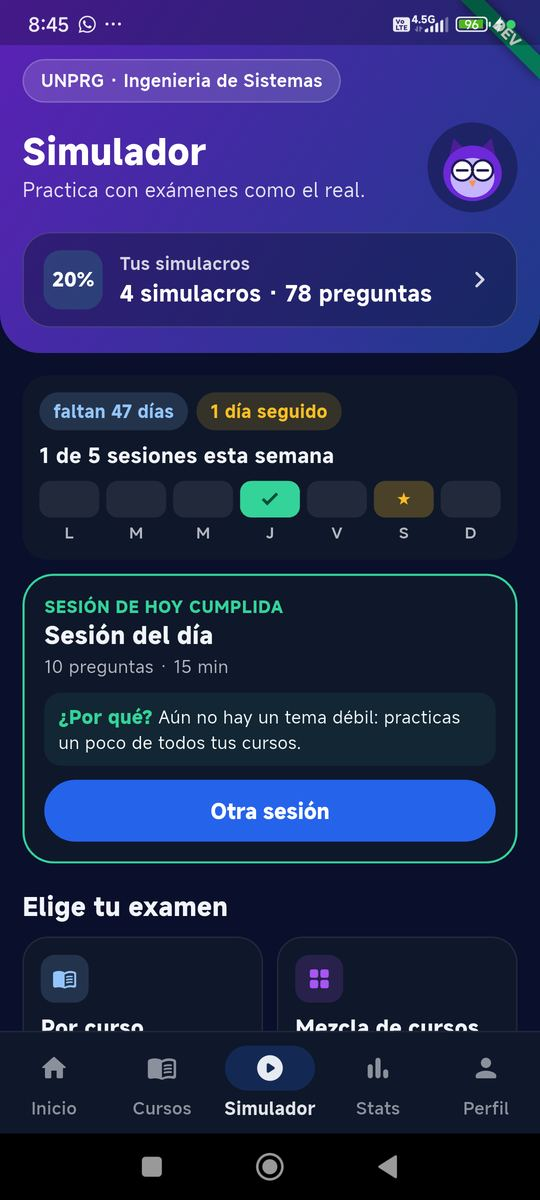
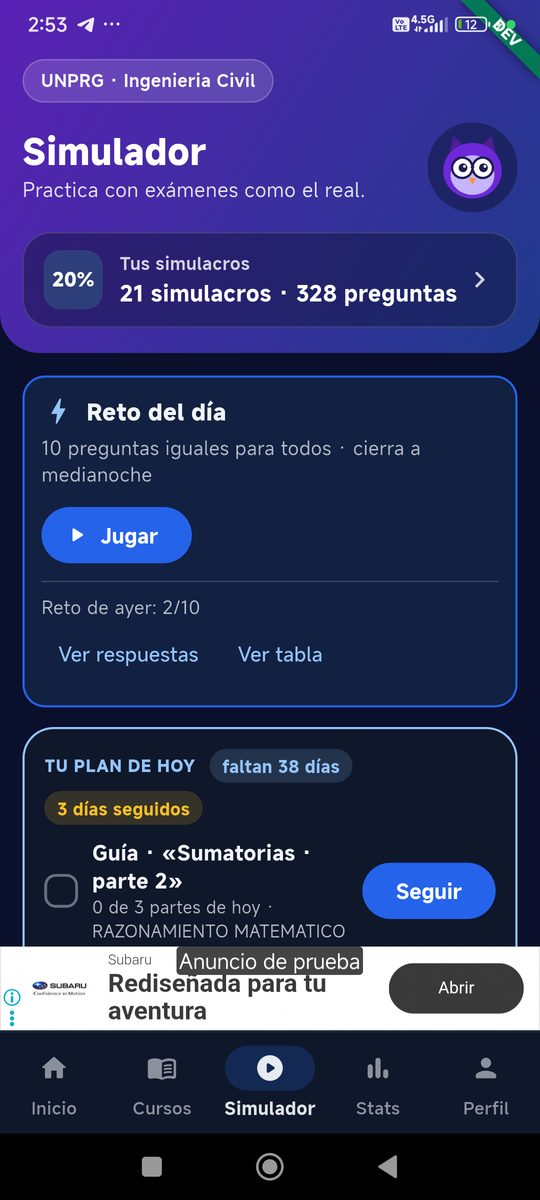
Guías vivas: plan personalizado con capturas reales
Tu plan de hoy, Tu semana, Tu meta corta, fecha única y práctica por peso del área. PROGRESO con la validación en el teléfono.

diff --git a/docs/guias/guia_app.html b/docs/guias/guia_app.html
@@ -29,8 +29,9 @@
       <ol>
         <li><a href="#sim-inicio">Inicio del Simulador</a></li>
         <li><a href="#sim-banner">Tarjeta bajo el búho</a></li>
-        <li><a href="#sim-plan">Tarjeta del plan</a></li>
+        <li><a href="#sim-plan">Tu plan de hoy</a></li>
         <li><a href="#sim-semana">Semana y racha</a></li>
+        <li><a href="#sim-tu-semana">Tu semana</a></li>
         <li><a href="#sim-meta">Tu meta</a></li>
         <li><a href="#sim-diagnostico">Diagnóstico inicial</a></li>
         <li><a href="#sim-practica">Arma tu práctica</a></li>
@@ -80,21 +81,28 @@
   <tr><th>Mensaje</th><th>Cuándo aparece</th><th>Al tocar</th></tr>
   <tr><td class="msg">«UNPRG · Ingeniería Civil»</td><td>Chip con universidad y carrera del perfil.</td><td>Nada.</td></tr>
   <tr><td class="msg">«Hola, {nombre}» y el búho feliz</td><td>Siempre. Nombre del perfil o de la cuenta de Google; si no hay, «estudiante».</td><td>Nada.</td></tr>
-  <tr><td class="msg">«Tu examen · {n} días» · «{dom 30 nov · 08:00}»</td><td>Si la universidad del alumno tiene <b>Próximo examen de admisión</b> en el admin <span class="chip info">ADMIN</span>. El día del examen: «¡Hoy!». Sin fecha, o si ya pasó: «Sin fecha · Ver exámenes pasados».</td><td>Abre Exámenes pasados (Simulador).</td></tr>
+  <tr><td class="msg">«Tu examen · {n} días» · «{dom 30 nov · 08:00}»</td><td><b>Fecha única</b> (la misma en Inicio, plan, Simulador y Stats): el <b>Próximo examen de admisión</b> de la universidad <span class="chip info">ADMIN</span> si no pasó; si no, el último día del mes que el alumno eligió en Tu meta, con «{Nov 2026} · por confirmar». El día del examen: «¡Hoy!». Sin ninguna de las dos: «Sin fecha · Ver exámenes pasados».</td><td>Abre Exámenes pasados (Simulador).</td></tr>
   <tr><td class="msg">«Guía de estudio · {percent}%» con barra</td><td>Siempre; «—» mientras cargan los cursos. El % cuenta <b>partes aprobadas</b> sobre todas las partes activas de tus cursos.</td><td>Abre la Guía de estudio.</td></tr>
-  <tr><td class="msg">«Con {n} partes al día terminas tu guía antes del examen.»</td><td>Con fecha de examen: partes que faltan ÷ días que faltan, redondeado hacia arriba.</td><td>Nada.</td></tr>
+  <tr><td class="msg">«Con {n} partes al día terminas tu guía antes del examen.»</td><td>Solo <b>sin plan</b> (con plan el ritmo va en «Tu plan de hoy»). Con fecha de examen: partes que faltan ÷ días que faltan, redondeado hacia arriba.</td><td>Nada.</td></tr>
   <tr><td class="msg">«Avanza un poco cada día: cada parte suma a tu guía.»</td><td>Sin fecha de examen (o ya pasó).</td><td>Nada.</td></tr>
   <tr><td class="msg">«¡Terminaste tu guía! Repasa con el Simulador.»</td><td>Todas las partes aprobadas.</td><td>Nada.</td></tr>
 </table></div>
+
+<div class="screen" id="inicio-plan-hoy">
+  <figure><img src="img/ini-plan-hoy.jpg" alt="Inicio con Tu plan de hoy"><figcaption>Inicio con plan (TEST, 23-oct-2026).</figcaption></figure>
+  <div class="body">
+    <h3>Tu plan de hoy (con plan)</h3>
+    <p>Si el alumno tiene meta, bajo la cabecera aparece la misma tarjeta «TU PLAN DE HOY» que en el Simulador (ver <a href="#sim-plan">Tu plan de hoy</a>): la parte de la guía que toca, la práctica del día y el ritmo. Sin meta no aparece y el ritmo sigue en la cabecera.</p>
+  </div>
+</div>
 
 <h3 id="inicio-resto">Aviso fijado, pendientes, historias y atajos</h3>
 <div class="table-wrap"><table>
   <tr><th>Mensaje</th><th>Cuándo aparece</th><th>Al tocar</th></tr>
   <tr><td class="msg">Franja roja «AVISO UNPRG · {título}»</td><td>Si hay una noticia urgente o fijada vigente para tu universidad (o general). Solo una: la urgente más reciente; si no, la fijada más reciente. Ver <a href="#noticias">Noticias</a>.</td><td>Abre el detalle.</td></tr>
-  <tr><td class="msg">«TIENES PENDIENTE» · «Rinde el examen de «{subtema} · parte {n}»» · «Rendir»</td><td>La última parte que abriste ya tiene revisadas todas sus secciones y su examen sin aprobar.</td><td>Abre esa parte (ahí está «Rendir examen»).</td></tr>
+  <tr><td class="msg">«TIENES PENDIENTE» · «Rinde el examen de «{subtema} · parte {n}»» · «Rendir»</td><td>Sin plan: la última parte que abriste ya tiene revisadas todas sus secciones y su examen sin aprobar. <b>Con plan</b> los pendientes solo muestran el examen del Simulador a medias (la guía y la práctica ya están en «Tu plan de hoy»); sin él, la tarjeta no aparece.</td><td>Abre esa parte (ahí está «Rendir examen»).</td></tr>
   <tr><td class="msg">«Sigue con «{subtema} · parte {n}»» · «Seguir»</td><td>La última parte que abriste todavía no está completa.</td><td>Abre esa parte.</td></tr>
   <tr><td class="msg">«Termina tu examen del Simulador» · «{examen} · {n} respuestas guardadas» · «Retomar»</td><td>Hay un examen del Simulador sin entregar guardado en el teléfono.</td><td>Lo retoma.</td></tr>
-  <tr><td class="msg">«Sesión de hoy: {tema}» / «Simulacro de esta semana» / «Haz tu diagnóstico» · «Unos {m} minutos» · «Empezar»</td><td>Según tu plan de entrenamiento (sesión de hoy sin hacer, día de simulacro o diagnóstico pendiente). <span class="chip info">ADMIN</span> minutos de la sesión: 15.</td><td>Empieza la sesión, abre Exámenes pasados o el diagnóstico.</td></tr>
   <tr><td class="msg">«Ver los {n} ›»</td><td>Con más de un pendiente.</td><td>Abre «Tus pendientes» con todos.</td></tr>
   <tr><td class="msg">«¡Estás al día!» · «Sigue con tu guía o practica en el Simulador.» · «Ir a la guía»</td><td>Sin pendientes.</td><td>Abre la Guía de estudio.</td></tr>
   <tr><td class="msg">Círculos de historias (anillo de color) y «Ver todas»</td><td>Si hay noticias marcadas como historia, vigentes y de los últimos {días} <span class="chip info">ADMIN</span> 7, máximo 5. El anillo se vuelve gris cuando ya la viste.</td><td>Abre el visor de historias; «Ver todas», la lista de Noticias.</td></tr>
@@ -504,18 +512,24 @@ flowchart LR
 
 <div class="screen two" id="sim-plan">
   <figure><img src="img/sim-inicio-sinplan.jpg" alt="Arma tu plan"><figcaption>Sin meta: «Arma tu plan».</figcaption></figure>
-  <figure><img src="img/sim-inicio-plan.jpg" alt="Hoy te toca"><figcaption>Con meta: «Hoy te toca».</figcaption></figure>
+  <figure><img src="img/sim-inicio-plan.jpg" alt="Tu plan de hoy en el Simulador"><figcaption>Con meta: «Tu plan de hoy» (TEST, 23-oct-2026).</figcaption></figure>
   <div class="body">
-    <h3>Tarjeta del plan</h3>
-    <p>No aparece hasta que cargan tu meta y tus resultados. Muestra <b>una</b> de estas tarjetas, evaluadas en este orden:</p>
+    <h3>Tu plan de hoy</h3>
+    <p>Sin meta se ve «Arma tu plan» · «Te diré qué practicar cada día según tus errores. Siempre podrás elegir otro examen.» · «Crear mi plan» (abre Tu meta). Con meta, la tarjeta «TU PLAN DE HOY» (también en el Inicio) junta lo que toca hoy:</p>
     <div class="table-wrap"><table>
-      <tr><th>#</th><th>Mensaje</th><th>Cuándo aparece</th><th>Al tocar</th></tr>
-      <tr><td class="num">1</td><td class="msg">«Arma tu plan» · «Te diré qué practicar cada día según tus errores. Siempre podrás elegir otro examen.» · «Crear mi plan»</td><td>No tienes meta.</td><td>Abre Tu meta.</td></tr>
-      <tr><td class="num">2</td><td class="msg">«TU PRIMERA SESIÓN · Diagnóstico inicial» · «Un examen corto para saber en qué temas vas bien y en cuáles no.» · «Ver diagnóstico»</td><td>Tienes meta y ningún examen del Simulador entregado.</td><td>Abre el Diagnóstico.</td></tr>
-      <tr><td class="num">3</td><td class="msg">«HOY TE TOCA · SIMULACRO» · «Simulacro semanal» · «Rinde un examen pasado completo, con su tiempo y su puntaje.» · «Elegir examen pasado»</td><td>Hoy es tu día de simulacro y no entregaste un examen pasado desde el lunes.</td><td>Abre Exámenes pasados.</td></tr>
-      <tr><td class="num">4</td><td class="msg">«HOY TE TOCA · PLAN» · «Sesión del día» · «{10} preguntas · {15} min» · «Empezar sesión»</td><td>En cualquier otro caso, si hoy no hiciste una sesión.</td><td>Crea «Hoy te toca», <b>siempre con reloj</b>.</td></tr>
-      <tr><td class="num">4b</td><td class="msg">«SESIÓN DE HOY CUMPLIDA» (borde verde) · «Otra sesión»</td><td>Igual, pero hoy ya hiciste una sesión.</td><td>Crea otra sesión.</td></tr>
+      <tr><th>Parte</th><th>Mensaje</th><th>Cuándo aparece</th><th>Al tocar</th></tr>
+      <tr><td class="msg">Chips</td><td class="msg">«faltan {n} días» (+ «· por confirmar») · «{n} días seguidos»</td><td>Días hasta la fecha única del examen; «tu examen es hoy» el mismo día; sin fecha no hay chip. Racha si es mayor que 0.</td><td>—</td></tr>
+      <tr><td class="msg">Guía</td><td class="msg">«Guía · «{subtema} · parte {n}»» · «{h} de {m} partes de hoy · {CURSO}» · «Seguir»</td><td>La parte que toca: la última que abriste si aún no está aprobada; si no, la primera sin aprobar empezando por los <b>cursos clave</b> del área de tu carrera y luego por peso. <code>m</code> = el ritmo de hoy; <code>h</code> = partes aprobadas hoy.</td><td>Abre esa parte.</td></tr>
+      <tr><td class="msg">Guía cumplida</td><td class="msg">«Guía de hoy lista: {n} partes» (check verde) · «Seguir»</td><td>Ya aprobaste las <code>m</code> partes de hoy.</td><td>Adelanta la siguiente.</td></tr>
+      <tr><td class="msg">Día sin guía</td><td class="msg">«Hoy no toca guía. Si quieres, adelanta.»</td><td>Hoy no es día de estudio (por los días por semana de tu meta) o es el día del simulacro.</td><td>Abre la siguiente parte.</td></tr>
+      <tr><td class="msg">Guía terminada</td><td class="msg">«¡Terminaste tu guía! Repasa con el Simulador.»</td><td>Todas las partes aprobadas.</td><td>—</td></tr>
+      <tr><td class="msg">Práctica</td><td class="msg">«Práctica del día» · «{10} preguntas · {15} min» + «¿Por qué?» · «Empezar»</td><td>Día normal sin práctica hecha. Ya hecha: «Práctica del día lista» y «Otra».</td><td>Crea «Hoy te toca», <b>siempre con reloj</b>.</td></tr>
+      <tr><td class="msg">Simulacro</td><td class="msg">«★ Simulacro» · «Un examen pasado completo, con su tiempo y puntaje.» · «Empezar»</td><td>Hoy es tu día de simulacro y no entregaste un examen pasado desde el lunes.</td><td>Abre Exámenes pasados.</td></tr>
+      <tr><td class="msg">Diagnóstico</td><td class="msg">«Diagnóstico» · «Empezar»</td><td>Tienes meta y ningún examen del Simulador entregado.</td><td>Abre el Diagnóstico.</td></tr>
+      <tr><td class="msg">Ritmo</td><td class="msg">«{n} partes por día de estudio y terminas tu guía antes del examen.» / «A {n} partes por día llegas al {p} % de tu guía: empieza por lo clave.»</td><td>Partes sin aprobar al empezar el día ÷ días de estudio hasta la víspera del examen, hacia arriba, con tope de 3 <span class="chip info">ADMIN</span> («Tope de partes por día», 1–10). Si el tope no alcanza, la segunda frase con el % de la guía que se cubre. Se recalcula cada día.</td><td>—</td></tr>
+      <tr><td class="msg">Enlace</td><td class="msg">«Ver mi semana ›»</td><td>Siempre con meta.</td><td>Abre <a href="#sim-tu-semana">Tu semana</a>.</td></tr>
     </table></div>
+    <p><b>Días de estudio:</b> tantos días como «días a la semana» de tu meta, en este orden de preferencia: lunes, martes, jueves, viernes, miércoles, domingo, sábado; el día del simulacro no es de estudio salvo con 7 días.</p>
     <h4>El recuadro «¿Por qué?»</h4>
     <div class="table-wrap"><table>
       <tr><th>Mensaje</th><th>Cuándo aparece</th></tr>
@@ -527,7 +541,7 @@ flowchart LR
       <p><b>Sí se cumple.</b> Al tocar «Empezar sesión», el servidor arma 10 preguntas <span class="chip info">ADMIN</span>:</p>
       <ul>
         <li>el 60 % <span class="chip info">ADMIN</span> (6 preguntas) sale de tus temas débiles, hasta 3, repartidas entre ellos;</li>
-        <li>el resto sale de hasta 3 cursos al azar.</li>
+        <li>el resto sale de 3 cursos elegidos al azar, con más probabilidad los que más pesan en el área del examen de tu carrera (preguntas × puntos del prospecto); si tu carrera no tiene área, al azar.</li>
       </ul>
       <p>Sin temas débiles, las 10 se reparten entre los cursos. Dentro de cada tema van primero las preguntas que no viste en 14 días <span class="chip info">ADMIN</span>.</p>
       <p>Un tema deja de ser débil cuando pasa del 50 % con 5 o más respuestas. Cuentan los aciertos de <b>todos</b> los exámenes del Simulador.</p>
@@ -538,27 +552,45 @@ flowchart LR
 <h3 id="sim-semana">Semana y racha (con meta)</h3>
 <div class="table-wrap"><table>
   <tr><th>Mensaje</th><th>Cuándo aparece</th></tr>
-  <tr><td class="msg">«faltan {n} días» / «falta 1 día» / «tu examen es este mes»</td><td>Si elegiste mes de examen. Cuenta hasta el <b>día 1</b> de ese mes; desde el día 2 del mes el chip desaparece. Con «Aún no sé» no aparece.</td></tr>
+  <tr><td class="msg">«faltan {n} días» / «falta 1 día» / «tu examen es hoy» (+ «· por confirmar»)</td><td>Cuenta hasta la fecha única del examen: la de la universidad o, si no la publicó, el último día del mes de tu meta («por confirmar»). Sin ninguna, no aparece.</td></tr>
   <tr><td class="msg">«{n} días seguidos»</td><td>Racha: días seguidos con sesión, tolerando 1 día vacío <span class="chip info">ADMIN</span>. Hoy sin sesión todavía no la corta.</td></tr>
   <tr><td class="msg">«{h} de {meta} sesiones esta semana»</td><td><code>h</code> = días distintos con sesión desde el lunes (dos exámenes el mismo día cuentan 1).</td></tr>
   <tr><td class="msg">Franja L M M J V S D</td><td>✓ día con sesión; «Hoy» si hoy aún no; ★ día de simulacro futuro; gris el resto.</td></tr>
 </table></div>
 <p><b>Qué cuenta como sesión:</b> cualquier examen del Simulador entregado con 10 o más preguntas <span class="chip info">ADMIN</span>, sea del plan o libre. El admin puede limitarlo a sesiones del plan.</p>
 
-<div class="screen" id="sim-meta">
-  <figure><img src="img/sim-meta.jpg" alt="Tu meta"><figcaption>Tu meta.</figcaption></figure>
+<div class="screen" id="sim-tu-semana">
+  <figure><img src="img/sim-semana.jpg" alt="Tu semana"><figcaption>Tu semana (TEST, 23-oct-2026).</figcaption></figure>
+  <div class="body">
+    <h3>Tu semana</h3>
+    <p>Se abre con «Ver mi semana ›». Ruta <code>/simulator_plan_week</code>.</p>
+    <div class="table-wrap"><table>
+      <tr><th>Mensaje</th><th>Cuándo aparece / regla</th></tr>
+      <tr><td class="msg">«Editar meta» (arriba a la derecha)</td><td>Siempre. Abre Tu meta.</td></tr>
+      <tr><td class="msg">«Tu examen» · «faltan {n} días · {lun 30 nov · 08:00}» y la frase del ritmo</td><td>Fecha única y el mismo ritmo de «Tu plan de hoy».</td></tr>
+      <tr><td class="msg">Chips, «{h} de {meta} sesiones esta semana» y la franja L…D</td><td>Igual que en <a href="#sim-semana">Semana y racha</a>.</td></tr>
+      <tr><td class="msg">Lunes … Domingo: «{n} partes · práctica» / «★ Simulacro» / «Descanso», check verde si ese día hubo sesión; «Hoy» resaltado</td><td>Día de estudio, día del simulacro o día libre según tu meta.</td></tr>
+      <tr><td class="msg">Glosario: «Práctica del día: preguntas cortas, más de tus temas flojos.» · «Simulacro: un examen pasado completo, con su tiempo y puntaje.» · «Diagnóstico: solo la primera vez, para saber por dónde empezar.»</td><td>Siempre, al final.</td></tr>
+    </table></div>
+  </div>
+</div>
+
+<div class="screen two" id="sim-meta">
+  <figure><img src="img/sim-meta.jpg" alt="Tu meta"><figcaption>Tu meta con la fecha publicada.</figcaption></figure>
+  <figure><img src="img/sim-meta-ritmo.jpg" alt="Tu meta con vista previa del ritmo"><figcaption>Vista previa del ritmo al elegir 5 días.</figcaption></figure>
   <div class="body">
     <h3>Tu meta</h3>
-    <p>Se abre con «Crear mi plan» o, si ya existe, con la bandera «Editar meta» del historial (es el único acceso para editarla).</p>
+    <p>Se abre con «Crear mi plan» o, si ya existe, con «Editar meta» (Tu semana o el historial).</p>
     <div class="table-wrap"><table>
       <tr><th>Mensaje</th><th>Valor inicial / regla</th></tr>
-      <tr><td class="msg">Búho: «Armemos tu plan. Te diré qué practicar cada día, y siempre podrás elegir otro examen.»</td><td>—</td></tr>
-      <tr><td class="msg">«Postulas a {carrera} · de tu perfil»</td><td>Solo lectura; sale del perfil.</td></tr>
-      <tr><td class="msg">«¿CUÁNDO DAS TU EXAMEN?» (12 meses + «Aún no sé»)</td><td>Ninguno marcado al crear; guardar sin elegir = «Aún no sé».</td></tr>
-      <tr><td class="msg">«SESIONES POR SEMANA» 3 · 5 · 7 y «recomendado»</td><td>5 <span class="chip info">ADMIN</span>. «Cada sesión: unos 15 minutos.»</td></tr>
-      <tr><td class="msg">«DÍA DEL SIMULACRO COMPLETO» L…D</td><td>Sábado <span class="chip info">ADMIN</span>.</td></tr>
-      <tr><td class="msg">«Recordatorio diario» · «19:00 · Guardamos tu hora; los avisos llegan en una próxima versión.»</td><td>Apagado. La hora no se edita y todavía no hay notificaciones.</td></tr>
-      <tr><td class="msg">«Crear mi plan» / «Guardar meta» · «Ahora no, solo quiero practicar»</td><td>Se guarda en tu perfil. Si falla: «No pudimos cargar esta información. Intenta de nuevo.»</td></tr>
+      <tr><td class="msg">Búho: «Ya sé a qué postulas y cuándo. Solo dime cuántos días estudias y armo tu semana.» / «Armemos tu plan. Te diré qué practicar cada día, y siempre podrás elegir otro examen.»</td><td>El primero si la universidad publicó la fecha; si no, el segundo.</td></tr>
+      <tr><td class="msg">«Postulas a {universidad · carrera} · de tu perfil»</td><td>Solo lectura; sale del perfil.</td></tr>
+      <tr><td class="msg">«Tu examen» · «{lun 30 nov · 08:00} · faltan {n} días» · «Fecha publicada por la {universidad}»</td><td>Si la universidad tiene próximo examen <span class="chip info">ADMIN</span>. En ese caso no se pregunta el mes.</td></tr>
+      <tr><td class="msg">«¿EN QUÉ MES CREES QUE SERÁ TU EXAMEN?» (12 meses + «Aún no sé») · «Aproximado basta: cuando la universidad publique la fecha, usamos la suya.»</td><td>Solo si la universidad no publicó la fecha.</td></tr>
+      <tr><td class="msg">«¿CUÁNTOS DÍAS A LA SEMANA ESTUDIAS?» 3 · 5 · 7 y «recomendado» · «Cada día: partes de la guía y una práctica de {15} min.»</td><td>5 <span class="chip info">ADMIN</span>.</td></tr>
+      <tr><td class="msg">«¿QUÉ DÍA HACES TU SIMULACRO?» L…D · «Un examen pasado completo, una vez por semana.»</td><td>Sábado <span class="chip info">ADMIN</span>.</td></tr>
+      <tr><td class="msg">«Con {d} días: {n} partes por día y terminas tu guía a tiempo.» / «Con {d} días: {n} partes por día (lo máximo). Llegas al {p} % de tu guía y el plan empieza por lo que más pesa en tu examen.»</td><td>Vista previa del ritmo; cambia al elegir los días. Sin fecha no aparece.</td></tr>
+      <tr><td class="msg">«Guardar mi plan» / «Guardar meta» · «Ahora no, solo quiero practicar»</td><td>Se guarda en tu perfil. Si falla: «No pudimos cargar esta información. Intenta de nuevo.» Ya no hay recordatorio diario (los avisos no existen todavía); el valor guardado se conserva.</td></tr>
     </table></div>
   </div>
 </div>
@@ -1046,7 +1078,7 @@ flowchart LR
   <tr><td class="msg">Cursos → Subtemas</td><td>Examen de dominio («Examen integrador») del subtema.</td><td>—</td></tr>
   <tr><td class="msg">Plantillas de examen</td><td>Preguntas, duración y % para aprobar de cada examen de parte o dominio.</td><td>60 min si no tiene duración</td></tr>
   <tr><td class="msg">Configuración → Simulador</td><td>Tamaños de práctica, reloj por defecto, penalidad, días sin repetir, origen y dificultad, otras universidades, ocultar incompletos, explicaciones.</td><td>10/20/40 · sí · no · 14 · ambos · mixta · sí · sí · sí</td></tr>
-  <tr><td class="msg">Configuración → Plan de entrenamiento</td><td>Sesiones por semana y recomendada, tamaño de la sesión, % de temas débiles, umbral y respuestas mínimas, diagnóstico, «¿Por qué?», día de simulacro, hora de recordatorio, mínimo para contar sesión, gracia de la racha, si cuentan los exámenes libres.</td><td>3/5/7 · 5 · 10 preg./15 min · 60 % · 50 % y 5 · 4 por curso · sí · sábado · 19:00 · 10 · 1 día · sí</td></tr>
+  <tr><td class="msg">Configuración → Plan de entrenamiento</td><td>Sesiones por semana y recomendada, tamaño de la sesión, % de temas débiles, umbral y respuestas mínimas, diagnóstico, «¿Por qué?», día de simulacro, hora de recordatorio, mínimo para contar sesión, gracia de la racha, si cuentan los exámenes libres, tope de partes de la guía por día.</td><td>3/5/7 · 5 · 10 preg./15 min · 60 % · 50 % y 5 · 4 por curso · sí · sábado · 19:00 · 10 · 1 día · sí · 3</td></tr>
   <tr><td class="msg">Configuración → XP y rangos</td><td>Escalera de rangos (nombre, XP desde, imagen), estrellas y XP por estrella, XP por evento (0 lo desactiva), tope diario, mínimo de preguntas por sesión, días para no repetir, segundos mínimos por pregunta, cada cuántos días un examen pasado da XP.</td><td>18 escalones · sí · 2.000 · ver tabla · 300 · 10 · 14 · 5 · 7</td></tr>
   <tr><td class="msg">Configuración → Rankings</td><td>Interruptor general (con «Alumnos que ganaron XP esta semana» para decidir); etapas, alumnos por grupo, % que sube y baja, mínimo para bajar, grupos por universidad, «Esta semana» y su mínimo por carrera; reto: activo, preguntas, minutos, bono, preguntas de exámenes pasados propios, días sin repetir, mínimo de la pestaña de carrera; palabras prohibidas.</td><td>Apagado · Aspirante…Ingresante · 30 · 15 % / 15 % · 5 · no · sí · 5 · sí · 10 · 15 · 20 · 6 · 30 · 5</td></tr>
   <tr><td class="msg">Configuración → Nombres de usuario y reto de hoy</td><td>Buscar un nombre de usuario o uid y retirarlo con motivo (la app le asigna otro al azar y le explica por qué); ver quiénes se ocultaron; ver el reto de hoy de cada universidad y cambiar una pregunta si nadie lo entregó aún.</td><td>—</td></tr>
@@ -1090,6 +1122,7 @@ flowchart LR
   <li><b>19-oct-2026</b> · Candado del video renovado: tarjeta compacta con el degradado de la cabecera y el búho guiñando, «Desbloquea la explicación · Ganas +5 XP · te quedan 25 XP hoy», «Ver video · +5 XP» y «Premium». Ver el video completo da XP (5 por explicación, tope de 25 al día, una vez por pregunta, ajustables en el admin) y abre la explicación con el búho feliz y «¡Así se resuelve!».</li>
   <li><b>19-oct-2026</b> · Revisión por pregunta renovada (examen de parte, de dominio y Simulador): filtros «Falladas · En blanco · Correctas · Todas», mapa de casillas para saltar a cualquier pregunta, tarjeta que se entiende cerrada («Marcaste B · era C» y el inicio del enunciado), todas las alternativas marcadas al abrirla (rojo la tuya, verde la correcta, gris en blanco) y, en el Simulador, «Ver en la guía» por pregunta.</li>
   <li><b>19-oct-2026</b> · Anuncios: el banner va también en Cursos, Simulador (portada), Stats y Perfil (siete pantallas, cada una con su interruptor en Configuración → Anuncios) y se comparte entre pestañas para aparecer al instante; el anuncio de pantalla completa sale al terminar cada examen, antes del resultado (de fábrica sin espera ni primer examen libre; ambos siguen siendo ajustes del admin). App #123, admin #107.</li>
+  <li><b>23-oct-2026</b> · Plan personalizado (app #137, admin #121): fecha única del examen (universidad o mes de la meta «por confirmar»), «Tu plan de hoy» en Inicio y Simulador (parte de la guía que toca, cursos clave primero, ritmo con tope configurable, práctica del día), pantalla «Tu semana», «Tu meta» corta con vista previa del ritmo y sin recordatorio, y la práctica del día elige cursos según su peso en el área del examen. Probado en el teléfono; capturas nuevas. Corregido: «{n} %» ya no se parte en dos líneas y el chip del día del examen dice «tu examen es hoy».</li>
   <li><b>19-oct-2026</b> · Probado en el teléfono (TEST): banner de prueba en el Inicio, pantalla Premium, tarjeta del Perfil, premium regalado (sin banner), «Restaurar compras» y el aviso del tope diario de exámenes pasados; capturas reales en «Anuncios» y «Plan Premium». Corregido el banner que tomaba media pantalla y dejaba el Inicio vacío (app #122).</li>
   <li><b>19-oct-2026</b> · Plan Premium (Fase 5B de costos): tarjeta en el Perfil, pantalla <code>/profile/premium</code> con los dos planes de Google Play, restaurar compras y estado vigente; tope diario de exámenes pasados para la cuenta gratuita con aviso «Exámenes pasados de hoy»; «O hazte Premium» bajo el candado del video; el premium apaga anuncios, candados y topes. En TEST las compras siguen deshabilitadas (sin Play Console); el admin regala premium desde la ficha del alumno.</li>
   <li><b>18-oct-2026</b> · Anuncios de AdMob (Fase 5A de costos): banner al pie de Inicio, Noticias y Rankings; anuncio de pantalla completa al salir de un resultado (primer examen del día libre, mínimo 10 min entre dos); video para ver la explicación de una pregunta fallada; nada en lección, examen, simulador ni historias; todo apagable desde Configuración → Anuncios. Capturas pendientes de la prueba en el teléfono.</li>

diff --git a/docs/guias/arquitectura.html b/docs/guias/arquitectura.html
@@ -193,15 +193,15 @@ flowchart LR
       <li>Cada vez que el alumno entrega un examen del Simulador, el servidor anota cuántas respondió y cuántas acertó <b>por tema</b>.</li>
       <li>Un tema es <b>débil</b> si tiene al menos 5 respuestas y menos del 50 % de aciertos.</li>
       <li>La app lee esos datos y muestra «Fallaste 7 de 8 en {tema}».</li>
-      <li>Al tocar «Empezar sesión», el servidor arma 10 preguntas: 6 de los temas débiles (hasta 3 temas) y 4 de cursos al azar.</li>
+      <li>Al tocar «Empezar sesión», el servidor arma 10 preguntas: 6 de los temas débiles (hasta 3 temas) y 4 de 3 cursos elegidos al azar con probabilidad según su peso en el área del examen de la carrera (<code>functions/src/exam_areas.ts</code>; sin área, al azar).</li>
       <li>Cuando el tema pasa del 50 %, deja de ser débil y el plan pasa al siguiente.</li>
     </ol>
 <pre class="mermaid">
 flowchart LR
   E["Entrega un examen"] --> T["Servidor suma aciertos por tema"]
   T --> W{"¿Tema con 5+ respuestas y menos de 50 %?"}
-  W -->|sí| H["Hoy te toca: 6 de ese tema + 4 al azar"]
-  W -->|no| M["Hoy te toca: 10 al azar"]
+  W -->|sí| H["Hoy te toca: 6 de ese tema + 4 por peso del área"]
+  W -->|no| M["Hoy te toca: 10 por peso del área"]
   H --> E
   M --> E
 </pre>
@@ -411,7 +411,7 @@ flowchart LR
   <tr><td class="msg"><code>subtopic_mastery</code></td><td>Todo el subtema; exige la plata.</td><td>Plantilla</td></tr>
   <tr><td class="msg"><code>past_exam</code></td><td>Todas las publicadas del examen = <code>questionCount</code>.</td><td><code>durationMinutes</code></td></tr>
   <tr><td class="msg"><code>practice</code> course/mix/random</td><td>Reparto parejo; no vistas en <code>repeatWindowDays</code>.</td><td>Tamaño o 4 h</td></tr>
-  <tr><td class="msg"><code>practice</code> plan</td><td><code>weakSharePercent</code> de hasta 3 temas débiles + cursos al azar.</td><td><code>dailyMinutes</code></td></tr>
+  <tr><td class="msg"><code>practice</code> plan</td><td><code>weakSharePercent</code> de hasta 3 temas débiles + 3 cursos activos al azar ponderados por <code>areaCourseWeights</code> (Σ preguntas × puntos del área de la carrera; Efraimidis–Spirakis con semilla <code>uid:requestId</code>). +1 lectura de la universidad.</td><td><code>dailyMinutes</code></td></tr>
   <tr><td class="msg"><code>practice</code> diagnostic</td><td><code>diagnosticPerCourse</code> por curso activo.</td><td>4 h</td></tr>
   <tr><td class="msg"><code>practice</code> mistakes</td><td>Incorrectas y blancas (≤ 100), misma versión.</td><td>90 s/pregunta o 4 h</td></tr>
 </table></div>
@@ -529,6 +529,7 @@ flowchart LR
 
 <h2 id="cambios">Historial de cambios</h2>
 <ul class="changelog">
+<li><b>23-oct-2026</b> · Plan personalizado (admin #121, app #137): <code>{config}/simulator.plan.maxPartsPerDay</code> (tope de partes de la guía por día, 3 de fábrica, 1–10; viaja en <code>{config}/app</code>). <code>dailyPlan</code> elige el resto de cursos por su peso en el área del examen (<code>exam_areas.ts</code>: <code>areaCourseWeights</code>, <code>weightedCourses</code>; <code>SimulatorService.planCourses</code>), +1 lectura de la universidad por práctica; sin área o sin <code>professionId</code>, al azar como antes. App: fecha única del examen (<code>ExamDate.resolve</code>), «Tu plan de hoy» y «Tu semana» calculados en el teléfono sin lecturas nuevas (las partes aprobadas al empezar el día se guardan en SharedPreferences <code>plan_day_v1|uid</code>).</li>
 <li><b>23-oct-2026</b> · Áreas del examen (<code>docs/exam_areas_contract.md</code>): la universidad guarda <code>examAreas[]</code> (<code>id</code>, <code>name</code>, <code>source</code>, <code>rows[]</code> con <code>subject</code>, <code>courseId</code>, <code>questions</code>, <code>points</code>, <code>key</code>) y <code>careerDetails.{id}.examAreaId</code>. La app calcula el peso por curso (<code>ExamFocus</code>) de la universidad que ya lee una vez por sesión: sin lecturas nuevas. Admin: pestaña «Áreas del examen» y <code>UniversityRepo.setExamAreas</code>.</li>
 <li><b>22-oct-2026</b> · <code>{config}/xp.rankAnimation</code> (booleano, <code>true</code> de fábrica; viaja en <code>{config}/app</code>): la app anima «¡Subiste de rango!» y la estrella nueva. Solo pantalla, sin lecturas nuevas. El editor de XP del admin ya no devuelve <code>explanationVideoDailyCap</code> ni <code>rankAnimation</code> a su valor de fábrica al guardar.</li>
 <li><b>22-oct-2026</b> · Estadísticas renovadas: <code>{config}/stats</code> (umbrales de la pestaña, contrato <code>docs/stats_contract.md</code>) en <code>APP_CONFIG_SECTIONS</code>; la app lee los 200 resultados de <code>simulatorSummary/current.recentResults</code> (misma lectura). Admin #117, app #133.</li>

diff --git a/PROGRESO.md b/PROGRESO.md
@@ -7,6 +7,7 @@ _Última actualización: 2026-10-23_
 > **Retomar en otra máquina:** `docs/contexto_claude/README.md` tiene el punto exacto donde quedamos (2026-10-19), las reglas de trabajo, los pendientes y una copia de la memoria de Claude.
 
 ## Estado actual
+- **Plan personalizado validado en el teléfono (2026-10-23):** fusionado (admin #121, app #137) y Functions desplegadas en TEST. En el teléfono: «Tu plan de hoy» en Inicio y Simulador, «Tu semana», «Tu meta» con la fecha publicada por la UNPRG y vista previa del ritmo (7 días → 75 %, 5 días → 51 %), y una práctica del día real: 6 preguntas de los 3 temas débiles y 4 de Razonamiento Verbal y Razonamiento Matemático (22 % del área E cada uno) más Geografía. Correcciones: espacio sin salto antes de «%» en los textos del ARB (el «75 %» se partía) y el chip del día del examen dice «tu examen es hoy» (antes «tu examen es este mes»). Guías vivas actualizadas con capturas reales (Guía v33, Arquitectura v38). Pendiente: fase 6 (otras universidades) espera los prospectos de Kevin.
 - **Plan personalizado (2026-10-23, rama `codex/plan-personalizado`):** fases 2–4 en la app (fecha única, Tu meta corta, Tu plan de hoy y Tu semana; ver `../iya-app/PROGRESO.md`). Admin: ajuste `{config}/simulator.plan.maxPartsPerDay` (tope de partes de la guía por día, 3 de fábrica, 1–10) en `plan_settings.dart`, su tarjeta y el catálogo. **Fase 5 (Functions)**: «Hoy te toca» elige el resto de sus preguntas de tres cursos al azar con probabilidad según su peso en el área del examen (`functions/src/exam_areas.ts`: `areaCourseWeights`, `weightedCourses`; `SimulatorService.planCourses`, +1 lectura de la universidad por práctica); sin área, al azar como antes. Contratos `simulator_contract.md` §4 y `exam_areas_contract.md` actualizados. Pruebas: Functions `test/exam_areas.test.ts`, admin `plan_settings_test.dart`.
 - **Áreas del examen (2026-10-23, rama `codex/areas-examen`, fase 1):** Kevin decidió registrar el peso de cada curso **por área** (grupo académico) de la universidad. Contrato `docs/exam_areas_contract.md` (copia en la app). Universidad: `examAreas[]` (`id`, `name`, `source`, `rows[]` con `subject`, `courseId`, `questions`, `points`, `key`) y `careerDetails.{id}.examAreaId`. Admin: `ExamArea`/`ExamAreaRow` en `domain/university_profile.dart`, `UniversityRepo.setExamAreas` (quita el área a carreras huérfanas), pestaña «Áreas del examen» de la ficha (`widgets/exam_areas_card.dart`: tabla con peso %, ★ clave, copiar de otra área) y «Área del examen» en el diálogo de cada carrera. Cargado en TEST desde el prospecto UNPRG 2026-II (Anexo 1): grupos A–F con sus preguntas y puntos; Ing. Civil y Sistemas → E; claves sugeridas (Kevin puede cambiarlas). Pruebas `test/exam_areas_test.dart`. Probado en el teléfono (Ing. Civil → grupo E: los tres grupos se ven bien); Guía v32 con las capturas reales. Siguiente: plan de hoy y práctica del día priorizados por peso; fecha única del examen.
 - **Animación al subir de rango (2026-10-22, rama `codex/rango-animado`):** nuevo `{config}/xp.rankAnimation` (true de fábrica) en `XpSettings` y ajuste «Animación al subir de rango» en Niveles e insignias. Corregido: el editor completo de XP y rangos reescribía el documento sin `explanationVideoDailyCap` (volvía a 25 al guardar); ahora conserva ese campo y `rankAnimation` (prueba «the card keeps the fields it does not show»). Contrato `docs/xp_contract.md`. App: ver `../iya-app/PROGRESO.md`.
